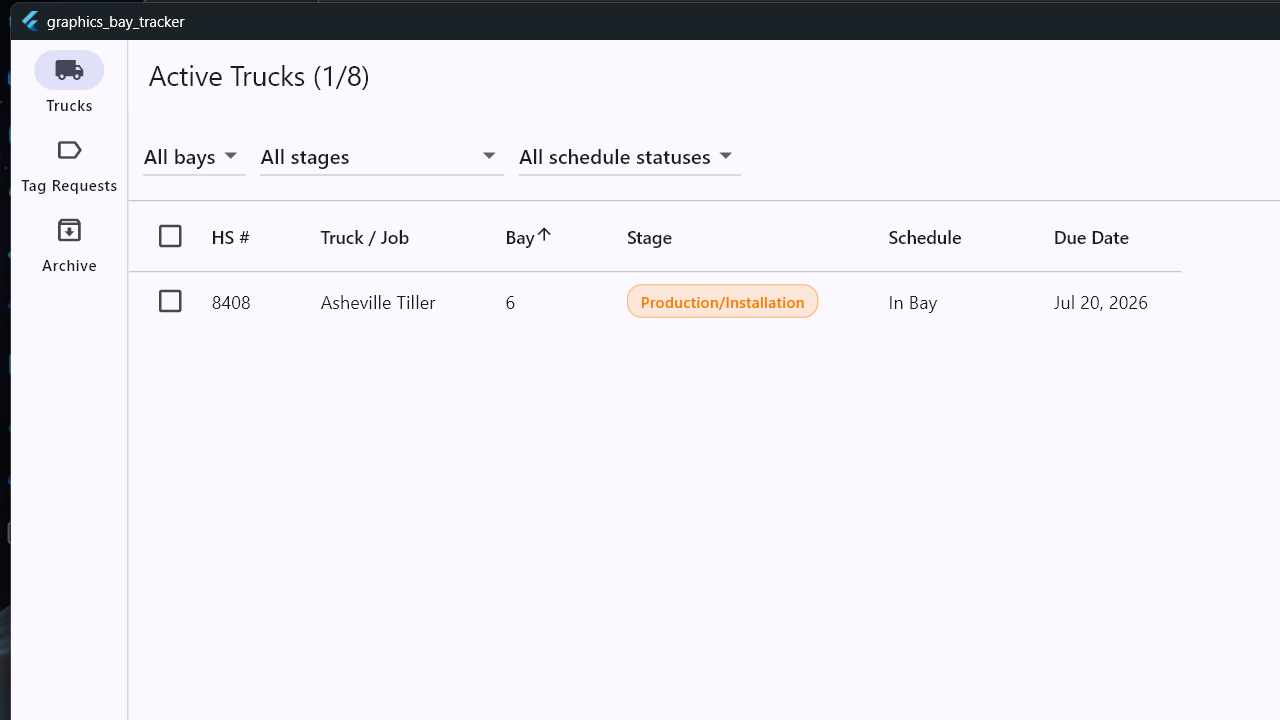
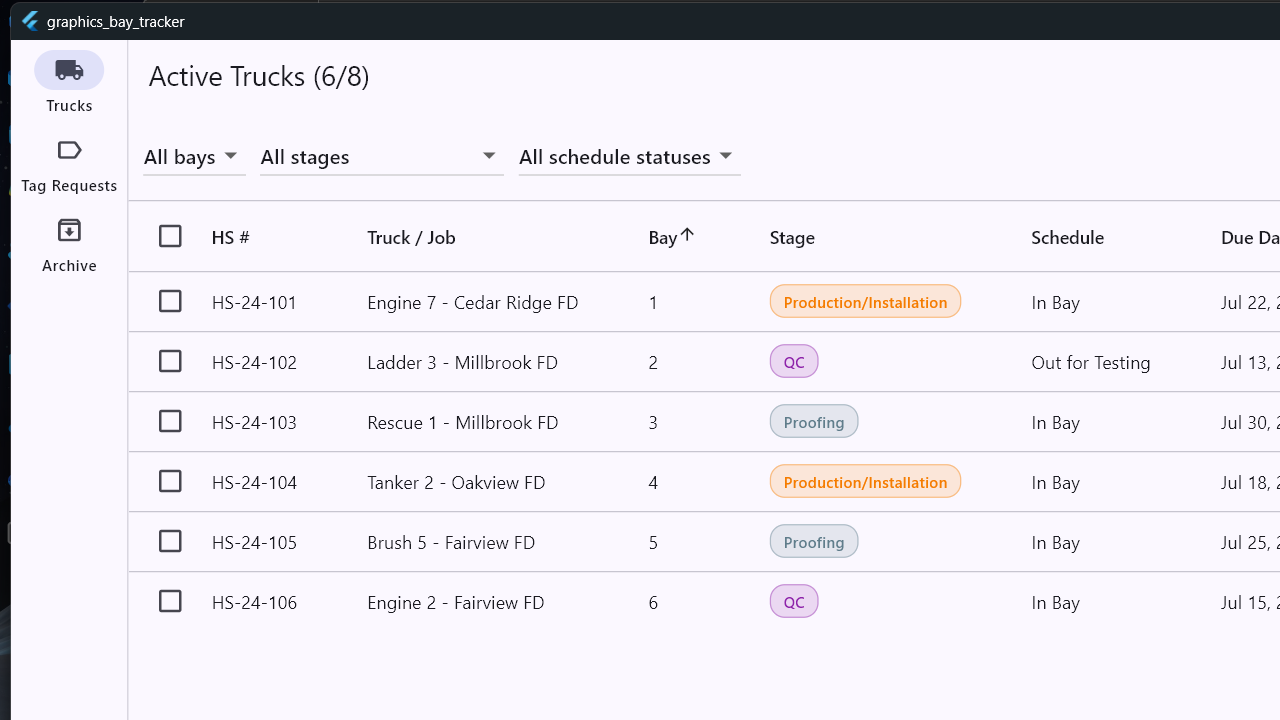
Fix accumulating timestamp bug on truck detail screen; refresh README screenshot
DateFormat.add_jm() mutates the intl formatter in place and returns it
rather than returning a new instance. It was being called on a static
final _dateFmt shared across rebuilds, so every rebuild of the truck
detail screen permanently appended another time pattern onto the same
formatter — visible as duplicating "12:51 PM 12:51 PM" timestamps after
repeated navigation. Fixed by building a separate, never-mutated
_dateTimeFmt once. Caught while reviewing a fresh screenshot with
placeholder portfolio data.

diff --git a/lib/ui/screens/truck_detail_screen.dart b/lib/ui/screens/truck_detail_screen.dart
@@ -42,6 +42,11 @@ class _TruckDetailScreenState extends State<TruckDetailScreen> {
   bool _loading = true;
 
   static final _dateFmt = DateFormat.yMMMd();
+  // A distinct instance, not built by chaining .add_jm() off _dateFmt at
+  // call time: intl's add_jm() mutates the formatter in place and returns
+  // it, so calling it on a shared static instance inside build() would
+  // permanently accumulate another time pattern onto _dateFmt every rebuild.
+  static final _dateTimeFmt = DateFormat.yMMMd().add_jm();
 
   @override
   void initState() {
@@ -213,7 +218,7 @@ class _TruckDetailScreenState extends State<TruckDetailScreen> {
               _infoRow('Dealer-supplied graphics',
                   truck.dealerSuppliedGraphics ? 'Yes' : 'No'),
               _infoRow('Entered current stage',
-                  _dateFmt.add_jm().format(truck.dateEnteredStage)),
+                  _dateTimeFmt.format(truck.dateEnteredStage)),
               _infoRow('Created', _dateFmt.format(truck.createdAt)),
               if (truck.notes != null && truck.notes!.isNotEmpty)
                 _infoRow('Notes', truck.notes!),